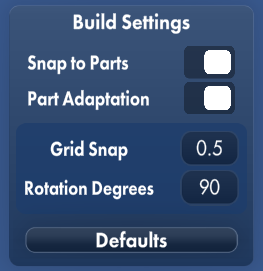
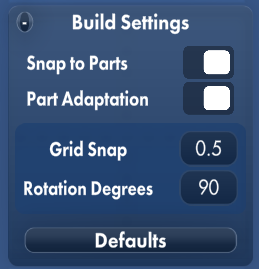
minimize button

diff --git a/BuildSettings/src/Settings.cs b/BuildSettings/src/Settings.cs
@@ -6,7 +6,7 @@ using Type = SFS.UI.ModGUI.Type;
 
 namespace BuildSettings
 {
-    public class InputData
+    public class NumberInput
     {
         public TextInput textInput;
         public string oldText;
@@ -18,17 +18,19 @@ namespace BuildSettings
 
     public class Settings : MonoBehaviour
     {
-        public static GameObject windowObj;
+        public static GameObject windowHolder;
         public static Vector2 gameSize;
         public static Settings inst;
 
         static readonly int MainWindowID = Builder.GetRandomID();
         static Window window;
+        static bool minimized;
+        static ButtonWithLabel minButton;
 
         public static ToggleWithLabel snapToggle;
         public static ToggleWithLabel adaptToggle;
-        public static InputData gridSnapData;
-        public static InputData rotationData;
+        public static NumberInput gridSnapData;
+        public static NumberInput rotationData;
 
         public static bool snapping;
         public static bool noAdaptation;
@@ -45,9 +47,9 @@ namespace BuildSettings
             rotationData = CreateData(90, 0.0001, 99999);
         }
 
-        InputData CreateData(double defaultVal, double min, double max)
+        NumberInput CreateData(double defaultVal, double min, double max)
         {
-            InputData ToReturn = new InputData
+            NumberInput ToReturn = new NumberInput
             {
                 textInput = new TextInput(),
                 oldText = defaultVal.ToString(),
@@ -61,13 +63,18 @@ namespace BuildSettings
 
         public void ShowGUI()
         {
-            windowObj = Builder.CreateHolder(Builder.SceneToAttach.CurrentScene, "Build Settings");
-            windowObj.transform.position = new Vector3(0, 0, 0);
+            windowHolder = Builder.CreateHolder(Builder.SceneToAttach.CurrentScene, "Build Settings");
+            var rectTransform = windowHolder.AddComponent<RectTransform>();
+            rectTransform.anchorMin = Vector2.zero;
+            rectTransform.anchorMax = Vector2.zero;
+            rectTransform.sizeDelta = Vector2.zero;
+            rectTransform.position = Vector2.zero;
 
-            window = Builder.CreateWindow(windowObj.transform, MainWindowID, 375, 400, 300, 400, true, true, 0.95f, "Build Settings");
+            window = Builder.CreateWindow(windowHolder.transform, MainWindowID, 375, 400, 300, 400, true, true, 0.95f, "Build Settings");
 
             window.CreateLayoutGroup(Type.Vertical);
 
+            minButton = Builder.CreateButtonWithLabel(window.gameObject.transform, 40, 30, -175, -25, "", "-", Minimize);
             // window.WindowColor = new Color(0.1f, 0.5f, 0.1f);
 
             Builder.CreateSpace(window, 0, 0);
@@ -92,9 +99,33 @@ namespace BuildSettings
             rotationData.textInput = Builder.CreateTextInput(rotationContainer, 90, 50, 0, 0, rotationData.defaultVal.ToString(), MakeNumber);
 
             Builder.CreateButton(window, 325, 40, 0, 0, Defaults, "Defaults");
+
+            // window.gameObject.transform.localScale = new Vector3(0.8f, 0.8f, 1f);
         }
 
-
+        void Minimize()
+        {
+            minimized = !minimized;
+            if (!minimized)
+            {
+                window.Size = new Vector2(375, 400);
+                if (window.Position.y < gameSize.y / 3)
+                {
+                    window.Position = new Vector2(window.Position.x, window.Position.y + 350);
+                }
+                minButton.button.Text = "-";
+            }
+            else
+            {
+                window.Size = new Vector2(375, 50);
+                if (window.Position.y < gameSize.y / 3)
+                {
+                    window.Position = new Vector2(window.Position.x, window.Position.y - 350);
+                }
+                minButton.button.Text = "+";
+            }
+            minButton.Position = new Vector2(-175, -25);
+        }
         void Defaults()
         {
             snapping = false;
@@ -112,7 +143,7 @@ namespace BuildSettings
             rotationData = Numberify(rotationData);
         }
 
-        InputData Numberify(InputData data)
+        NumberInput Numberify(NumberInput data)
         {
             try
             {
@@ -155,22 +186,24 @@ namespace BuildSettings
             return data;
         }
 
-        /*
+
         Vector2 ClampWindow()
         {
+            gameSize = new Vector2((windowHolder.GetComponentInParent<CanvasScaler>().referenceResolution.y / Screen.height) * Screen.width, windowHolder.GetComponentInParent<CanvasScaler>().referenceResolution.y);
+
             Vector2 pos = window.Position;
-            Mathf.Clamp(pos.x, 0 + window.Size.x / 2, gameSize.x - window.Size.x / 2);
-            Mathf.Clamp(pos.y, 0 + window.Size.y / 2, gameSize.y - window.Size.y / 2);
+            pos.x = Mathf.Clamp(pos.x, window.Size.x / 2, gameSize.x - window.Size.x / 2);
+            pos.y = Mathf.Clamp(pos.y, window.Size.y, gameSize.y);
             return pos;
         }
 
 
         void Update()
         {
-            if (windowObj == null) return;
-            space.Size.Set(Mathf.Clamp(100 - 10 * gridSnapData.textInput.Text.Length, 0, 70), 0);
-            gridSnapData.textInput.Size.Set(Mathf.Clamp(70 + 10 * gridSnapData.textInput.Text.Length, 80, 200), 45);
+            // gameSize = windowObj.GetComponentInParent<CanvasScaler>().referenceResolution;
+            if (windowHolder == null) return;
+            window.Position = ClampWindow();
+            // gridSnapData.textInput.Size = new Vector2(Mathf.Clamp(70 + 10 * gridSnapData.textInput.Text.Length, 80, 200), 45);
         }
-        */
     }
 }

diff --git a/BuildSettings/src/Patches.cs b/BuildSettings/src/Patches.cs
@@ -123,12 +123,4 @@ namespace BuildSettings
             width = Math.Min(newWidth, 0.1f);
         }
     }
-    [HarmonyPatch(typeof(DevSettings), nameof(DevSettings.FullVersion), MethodType.Getter)]
-    static class FullVerToggle
-    {
-        static void Prefix(ref bool __result)
-        {
-            __result = false;
-        }
-    }
 }
